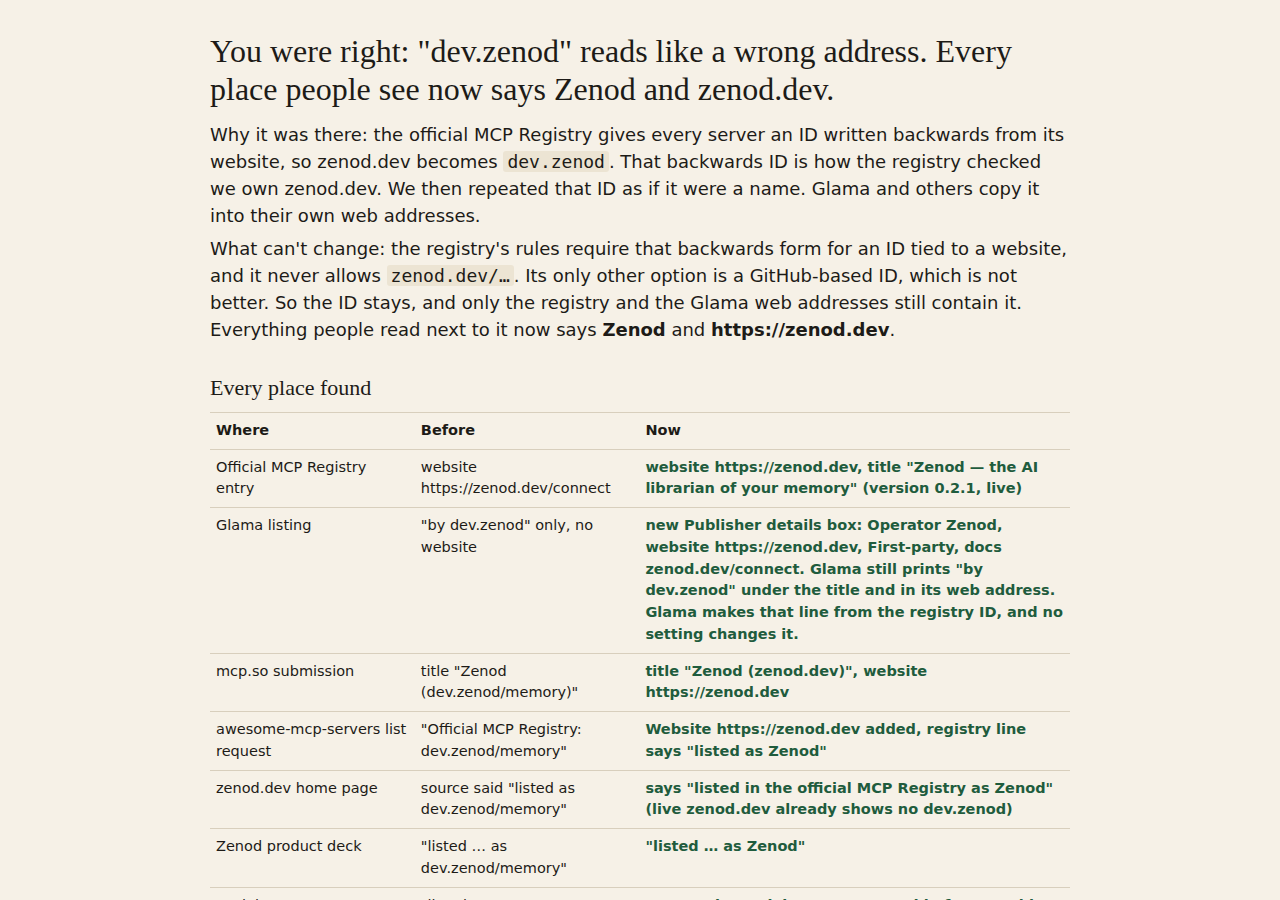
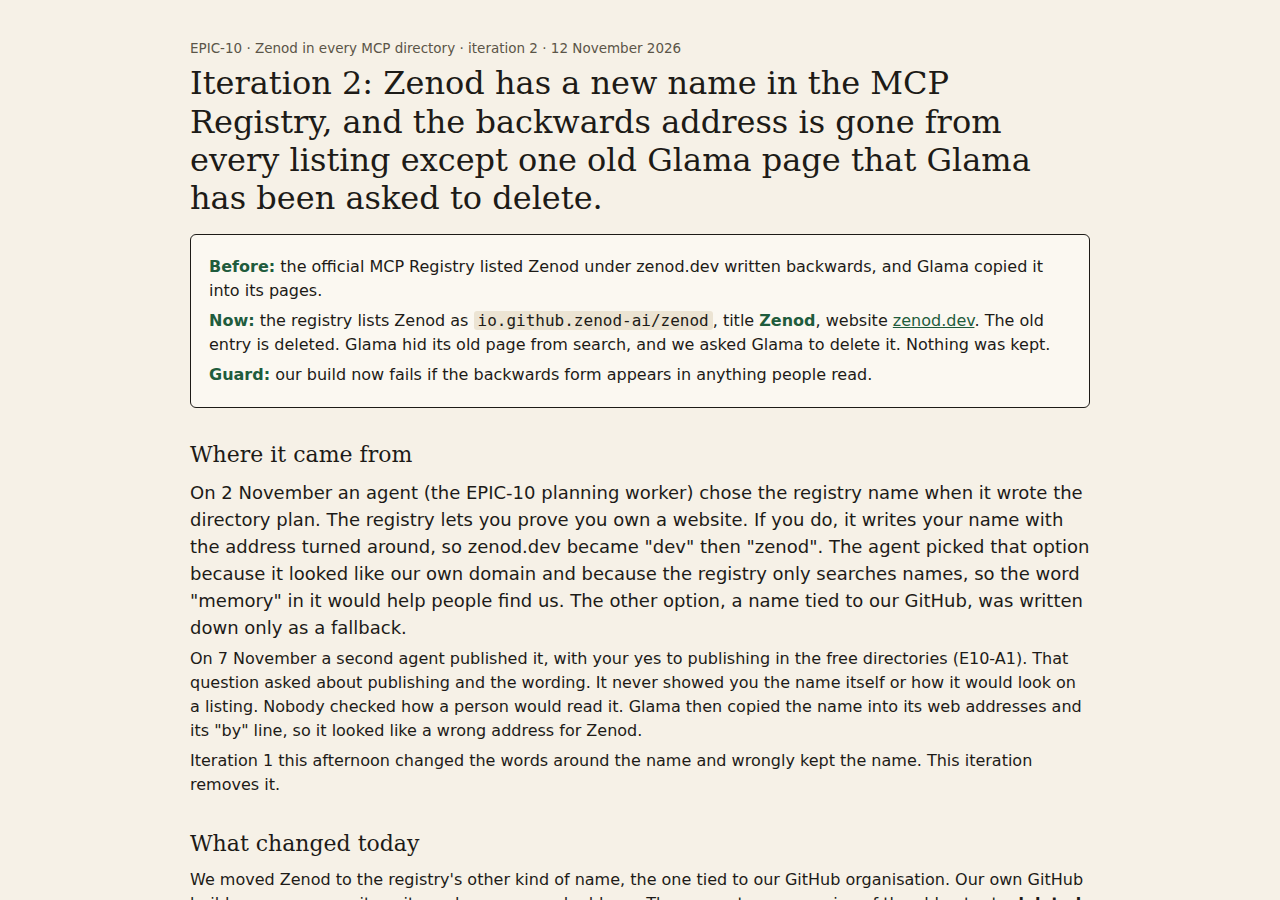
E10-S1 iteration 2: answer page, card and row back to review
Registry moved to io.github.zenod-ai/zenod, old name deleted, Glama old page
deprecated and removal requested (GLM-38), guard in ci.

Run: run_8371e147-0daa-4d9d-bceb-3e484a946b38

Changed region(s): [[0.125, 0.0311, 0.8438, 0.9333], [0.1562, 0.9333, 0.8438, 1.0]]

diff --git a/docs/evidence/e10-s1-2026-11-12/index.html b/docs/evidence/e10-s1-2026-11-12/index.html
@@ -1,2 +1,65 @@
-<!doctype html><html lang="en"><head><meta charset="utf-8"><title>Zenod listings: iteration 2</title></head>
-<body><p>Iteration 2 of the Zenod listings fix is being written. The live page is at http://vps3.taild81fbb.ts.net:8921/e10-s1/.</p></body></html>
+<!doctype html><html lang="en"><head><meta charset="utf-8"><meta name="viewport" content="width=device-width,initial-scale=1">
+<title>Zenod listings: the backwards address, iteration 2</title>
+<style>
+body{background:#f6f1e7;color:#1d1b17;font:16px/1.5 "Instrument Sans",system-ui,sans-serif;margin:0}
+main{max-width:900px;margin:0 auto;padding:32px 20px 60px}
+h1{font-family:Newsreader,Georgia,serif;font-weight:500;font-size:32px;line-height:1.2;margin:0 0 12px}
+h2{font-family:Newsreader,Georgia,serif;font-weight:500;font-size:22px;margin:30px 0 8px}
+p{margin:6px 0}.lead{font-size:18px}
+.box{border:1px solid #1d1b17;border-radius:6px;padding:14px 18px;margin:16px 0;background:#fbf8f1}
+.box b{color:#1f5c3d}
+table{border-collapse:collapse;width:100%;font-size:14.5px;margin-top:8px}
+td,th{border-top:1px solid #d8cfbd;padding:7px 6px;text-align:left;vertical-align:top}th{font-weight:600}
+.ok{color:#1f5c3d;font-weight:600}.wait{color:#8a5a00;font-weight:600}
+img{max-width:100%;border:1px solid #d8cfbd;border-radius:6px;margin:6px 0}
+a{color:#1f5c3d}code{background:#ece4d3;padding:0 4px;border-radius:3px}
+.small{font-size:13.5px;color:#5b5548}
+</style></head><body><main>
+<p class="small">EPIC-10 · Zenod in every MCP directory · iteration 2 · 12 November 2026</p>
+<h1>Iteration 2: Zenod has a new name in the MCP Registry, and the backwards address is gone from every listing except one old Glama page that Glama has been asked to delete.</h1>
+<div class="box">
+<p><b>Before:</b> the official MCP Registry listed Zenod under zenod.dev written backwards, and Glama copied it into its pages.</p>
+<p><b>Now:</b> the registry lists Zenod as <code>io.github.zenod-ai/zenod</code>, title <b>Zenod</b>, website <a href="https://zenod.dev">zenod.dev</a>. The old entry is deleted. Glama hid its old page from search, and we asked Glama to delete it. Nothing was kept.</p>
+<p><b>Guard:</b> our build now fails if the backwards form appears in anything people read.</p>
+</div>
+
+<h2>Where it came from</h2>
+<p class="lead">On 2 November an agent (the EPIC-10 planning worker) chose the registry name when it wrote the directory plan. The registry lets you prove you own a website. If you do, it writes your name with the address turned around, so zenod.dev became "dev" then "zenod". The agent picked that option because it looked like our own domain and because the registry only searches names, so the word "memory" in it would help people find us. The other option, a name tied to our GitHub, was written down only as a fallback.</p>
+<p>On 7 November a second agent published it, with your yes to publishing in the free directories (E10-A1). That question asked about publishing and the wording. It never showed you the name itself or how it would look on a listing. Nobody checked how a person would read it. Glama then copied the name into its web addresses and its "by" line, so it looked like a wrong address for Zenod.</p>
+<p>Iteration 1 this afternoon changed the words around the name and wrongly kept the name. This iteration removes it.</p>
+
+<h2>What changed today</h2>
+<p>We moved Zenod to the registry's other kind of name, the one tied to our GitHub organisation. Our own GitHub build proves we own it, so it needs no reversed address. Then we set every version of the old entry to <b>deleted</b>. That hides it from the registry and tells every directory that copies the registry to drop it.</p>
+
+<h2>Every place, before and after</h2>
+<table><tr><th>Where</th><th>Before</th><th>After</th><th>Checked live</th></tr>
+<tr><td>Official MCP Registry</td><td>Zenod listed under zenod.dev written backwards, three versions</td><td class="ok">Listed as <code>io.github.zenod-ai/zenod</code>, title Zenod, website zenod.dev. All three old versions set to deleted and gone from the registry</td><td class="small">16:28Z</td></tr>
+<tr><td>Glama search for zenod</td><td>showed Zenod under zenod.dev written backwards</td><td class="ok">the old page no longer appears in Glama search</td><td class="small">16:42Z</td></tr>
+<tr><td>Glama old connector page</td><td>title and address used zenod.dev written backwards</td><td class="wait">marked deprecated with the note "Zenod has moved" and a pointer to zenod.dev. <b>Removal requested 12 November 2026</b>, Glama support case GLM-38: delete the page and its addresses</td><td class="small">16:40Z</td></tr>
+<tr><td>Glama page for our GitHub repo</td><td>linked to the old connector page</td><td class="wait"><b>Removal requested 12 November 2026</b> in the same case GLM-38: link the new connector instead</td><td class="small">16:42Z</td></tr>
+<tr><td>Glama new connector</td><td>did not exist</td><td class="wait">Glama copies new registry entries on its own. Not there yet at 16:42Z. The next listing check confirms it</td><td class="small">16:42Z</td></tr>
+<tr><td>mcp.so submission</td><td>its registry line named zenod.dev written backwards</td><td class="ok">says listed as Zenod, <code>io.github.zenod-ai/zenod</code>, website zenod.dev</td><td class="small">16:25Z</td></tr>
+<tr><td>awesome-mcp-servers request</td><td>its registry line named zenod.dev written backwards</td><td class="ok">says listed as Zenod, <code>io.github.zenod-ai/zenod</code></td><td class="small">16:25Z</td></tr>
+<tr><td>Our four GitHub pull requests about the listing</td><td>titles or text named zenod.dev written backwards</td><td class="ok">reworded</td><td class="small">16:31Z</td></tr>
+<tr><td>Our public GitHub repo, every file</td><td>about 70 lines in the plan, cards, evidence notes, a test, a server label and the publish step</td><td class="ok">zero. 28 old screenshots that showed it were removed</td><td class="small">16:28Z</td></tr>
+<tr><td>Our team's plan pages (spines)</td><td>seven lines still name zenod.dev written backwards</td><td class="wait"><b>Handed to the Delivery Manager today</b> to reword. Only he writes those lines</td><td class="small">16:45Z</td></tr>
+<tr><td>zenod.dev, zenod.dev/connect, cloud.zenod.dev</td><td>already clean</td><td class="ok">checked, none</td><td class="small">16:21Z</td></tr>
+<tr><td>GitHub repo About box, the Gemini extension repo</td><td>already clean</td><td class="ok">checked, none</td><td class="small">16:21Z</td></tr>
+<tr><td>PulseMCP, mcp.so site, MCP Market, Smithery, GitHub's MCP list</td><td>Zenod not listed there</td><td class="ok">checked, nothing to remove</td><td class="small">16:30Z</td></tr>
+<tr><td>Social team files and unsent posts</td><td>a listing table and a registry screenshot with zenod.dev written backwards</td><td class="wait"><b>Handed to the social team today</b> to reword and retire the screenshot. Tonight's post already says Zenod and zenod.dev</td><td class="small">16:24Z</td></tr>
+<tr><td>Our DNS record note at Cloudflare</td><td>named zenod.dev written backwards</td><td class="ok">renamed</td><td class="small">16:29Z</td></tr>
+<tr><td>A label inside the Phylax server image</td><td>named zenod.dev written backwards</td><td class="ok">renamed in the code. The next image build carries the new label</td><td class="small">16:28Z</td></tr>
+</table>
+<p class="small">Glama is the only directory that copied the old name. Its own setting can only deprecate a page, which hides it from search but leaves it reachable by its old address, so we asked Glama's team to delete it.</p>
+<p class="small">Two things cannot be edited by anyone: old git commits in our public repo, and GitHub's "edited" history on the issue and pull requests. Changing past commits would mean rewriting the shared history of the repo, which we do not do. No page or listing shows the old text.</p>
+
+<h2>What you see now</h2>
+<p><a href="https://registry.modelcontextprotocol.io/?q=zenod">Official MCP Registry, search "zenod"</a>: Zenod appears as <code>io.github.zenod-ai/zenod</code>, and the old entry is gone.</p>
+<img src="registry-new.png" alt="Official MCP Registry search for zenod showing io.github.zenod-ai/zenod v1.0.0">
+<p><a href="https://glama.ai/mcp/connectors?query=zenod">Glama search for zenod</a>: the old page is gone from results.</p>
+<img src="glama-search.png" alt="Glama connector search for zenod with no result under the old name">
+
+<h2>The guard</h2>
+<p>A check now runs first in every build of the Zenod repo and before every registry publish. It fails if zenod.dev written backwards shows up in the listing file, the website, cards, evidence pages, code or tests. The registry publish also refuses a listing whose title is not Zenod or whose website is not https://zenod.dev.</p>
+<p class="small">EPIC-10 row E10-S1, iteration 2. Registry change: pull request 1648, published 16:27Z, old name deleted 16:28Z.</p>
+</main></body></html>

diff --git a/docs/zenod-in-every-mcp-directory-listing-spr.md b/docs/zenod-in-every-mcp-directory-listing-spr.md
@@ -71,7 +71,7 @@ Steps: each is independently testable and closes only with evidence.
 | E10-R10 | Ticket worker | Delivery Manager (monthly, date-gated) | E10-R7 findability check (needs R3 to R5 live): follow-up of E10-R3 | blocked | date 2026-12-08 (monthly re-run); Glama claim waits on E7-A15 | none | main | [findability table](epic10/findability-2026-11-08.md), [evidence](evidence/epic10-r10-2026-11-08.md): Registry "memory" 62/323 A–Z ; Glama Unhealthy, hidden ; "whatsapp memory" open phrase ; Smithery search empty ; wording E10-A6 live 2026-11-08 ([wording evidence](evidence/epic10-r10-wording-2026-11-08.md)): Registry 0.2.0 via CI (first real publish, run 42451067814, #1513), Gemini v0.2.0, mcp.so 6906 and awesome PR 18864 updated, MCP Market free queue 403 | 2026-11-08 | wording done 2026-11-08 (run_c9524b0c): every listing we control carries "Zenod — the AI librarian of your memory"; Glama picks it up from the registry by itself, its claim waits on E7-A15; next: monthly findability re-run 2026-12-08 against the new wording |
 | E10-R11 | Ticket worker | run_e0378fa1-40bd-420f-a81e-34f32e0245f9 | Claim Zenod's Glama listing (https://glama.ai/mcp/connectors/dev.zenod/memory) and add a test profile under Admin, Test Profile, so its health check signs in and Zenod stops reading Unhealthy (uptime 0.0%, tested 2026-11-12 03:58Z) | done (folded into E10-S1) | E10-A4 (Jordi: claim once the team sign-in exists); E7-A19 done 2026-11-11 (operations@alpha9.io signed into the agents' browser) | none (DNS TXT `_glama-claim.zenod.dev` on Cloudflare; Glama account Zenod Operations, jordi+zenod-glama@zenod.dev, Bitwarden queued) | main | [E10-R11 evidence](evidence/e10-r11-2026-11-12.md), [card](cards/E10-R11.md): claimed 06:16Z (Ownership verified via DNS), test profile API key = token "Glama health check (tools/list only)" on the agent-owned T7 test account (Google sign-in had expired; no other agent identity; health check is tools/list only), Healthy 06:20Z with 8 tools, TDQS A 4/5, Z logo thumbnail, found by Glama search "zenod" | 2026-11-12 | followups: start retry the awesome-mcp-servers PR (E10-R4) — it waited on the Glama score; note the bot may want the server listing zenod-ai/zenod scored too; park a separate empty test account for Glama — needs an agent-owned GitHub or Google identity, swap the token when one exists; confirm: yes — Jordi can open the public Glama listing and see Healthy himself ; login: the Glama account "Zenod Operations" (jordi+zenod-glama@zenod.dev, email-code sign-in) is queued for Jordi's Bitwarden, saves when agent_team/E83-A10 (confirm the Bitwarden helper) is done ; loose end: an unverified Glama sign-up under zenod-glama@zenod.dev may exist, unused |
 | E10-R12 | Ticket worker | unassigned | A real tagged Zenod release with a changelog and working install steps (the only release today is a whisper-cli binary from 5 Jul), so awesome lists such as awesome-selfhosted can list Zenod four months later | draft | none | none | main | zenod-social desk note 2026-11-12 (Scout's backlinks research) | 2026-11-12 | draft until Jordi starts it: a public release is publishing |
-| E10-S1 | Ticket worker | run_8371e147-0daa-4d9d-bceb-3e484a946b38 — claimed 2026-11-12T16:09Z, lease until 2026-11-12T18:09Z | Wrong address dev.zenod: find every place and fix it to zenod.dev: Jordi (vn_9a3f197b): listings carry dev.zenod instead of zenod.dev. Quick sweep of every listing, profile, repo, page and product where the wrong address appears; fix each one; report the list. | active (iteration 2, relaunched by Jordi 2026-11-12: It's not clear to me, man. Did we, why did we make this big mistake in so many places when we're registering in the public directories? Why did we make this mistake in the first place? Where did this come from? And did we 100% of places fix it? In 100% of places? Don't tell me that you kept it. I d…) | none | [#1647](https://github.com/zenod-ai/zenod/pull/1647) merged 69e44af7; 53289872 main-direct | main | [answer page](http://vps3.taild81fbb.ts.net:8921/e10-s1/) (serves /home/t3agent/zenod-evidence-pages/e10-s1, copy [evidence/e10-s1-2026-11-12](evidence/e10-s1-2026-11-12/index.html)), [card](cards/E10-S1.md): no real URL anywhere pointed at dev.zenod; `dev.zenod/memory` is the registry ID, whose rules require the reverse-domain form for a domain-verified name (registry docs authentication.mdx, checked 2026-11-12), so it is kept ; Registry 0.2.1 live via CI run 43247236322, websiteUrl https://zenod.dev ; Glama Publisher profile published (Operator Zenod, website https://zenod.dev, First-party, docs zenod.dev/connect, support contact support@zenod.dev; 'by dev.zenod' is Glama's namespace from the registry, not editable) ; mcp.so issue 6906 retitled 'Zenod (zenod.dev)' + Website line ; awesome-mcp-servers PR 18864 body Website line + 'listed as Zenod' ; zenod.dev home text 'listed … as Zenod' (#1647, staging now, production on next promote; live zenod.dev already had 0 dev.zenod) ; EPIC-12 decks reworded ; GitHub About, Gemini repo, Instagram, YouTube, LinkedIn, TikTok checked clean ; X profile read HELD (laptop offline) ; kept: registry ID, Glama URL, mcp-registry.yml search, Phylax OCI label `dev.zenod.runtime`, evidence files | 2026-11-12 | iteration 2 brief (Jordi vn_9bd9436e and WhatsApp 15:38Z Log/2026-11-12.md#^e-677b37: "why did we make this big mistake … where did this come from? … did we 100% of places fix it? Don't tell me that you kept it. I don't want it kept anywhere"): (1) root cause in plain words: who chose the registry id dev.zenod/memory and when (E10-R3), and why nobody explained that the registry writes the domain backwards ; (2) remove dev.zenod from 100% of public places: weigh republishing Zenod in the MCP Registry under the GitHub namespace io.github.zenod-ai and retiring the dev.zenod entries (status deprecated or deleted), then Glama, mcp.so, awesome lists and every other directory follow the new id ; list every place with before and after, none kept ; (3) a guard that stops it coming back (a check in the publish workflow and the listing copy that refuses dev.zenod in anything a person reads) ; then back to review with the live page; queued 2026-11-12 ~15:55Z: no seat with headroom (vps3 load) |
+| E10-S1 | Ticket worker | run_8371e147-0daa-4d9d-bceb-3e484a946b38 | Wrong address: remove zenod.dev written backwards from every listing, profile, repo, page and product (Jordi vn_9a3f197b, iteration 2 vn_9bd9436e) | review (iteration 2) | none | [#1648](https://github.com/zenod-ai/zenod/pull/1648) merged bc0ba9c3; [#1647](https://github.com/zenod-ai/zenod/pull/1647) merged 69e44af7 | main | [answer page](http://vps3.taild81fbb.ts.net:8921/e10-s1/) iteration 2 (serves /home/t3agent/zenod-evidence-pages/e10-s1, copy [evidence/e10-s1-2026-11-12](evidence/e10-s1-2026-11-12/index.html)), [card](cards/E10-S1.md): root cause: the EPIC-10 planning worker (run_a84842a7, P1 plan e8d51601, 2026-11-02) chose the registry's domain-verified name, which the registry writes reversed, for brand and search reasons, with the GitHub name only as fallback; E10-R3 published it 2026-11-07 under E10-A1, which never showed Jordi the name ; iteration 2: Registry `io.github.zenod-ai/zenod` 1.0.0 live 16:27Z (GitHub OIDC, title Zenod, website https://zenod.dev, #1648 bc0ba9c3), old name all 3 versions status deleted 16:28Z (workflow_dispatch retire_name) ; Glama old connector deprecated 16:40Z (out of search), removal requested 2026-11-12 support case GLM-38 (delete page and URLs, relink the repo page) ; new Glama connector not synced yet at 16:42Z ; mcp.so issue 6906 and awesome PR 18864 bodies name the new id ; zenod PRs 1501, 1503, 1513, 1647 reworded ; repo: 0 hits outside spines, 28 screenshots removed ; Cloudflare TXT comment renamed ; Phylax OCI label `zenod.runtime` ; guard `scripts/ci/check-no-reversed-domain.sh` first step in ci and in mcp-registry.yml ; social team desk note (zenod-social 33aa64e) ; checked clean: zenod.dev, /connect, cloud.zenod.dev, About box, zenod-gemini, PulseMCP, mcp.so, MCP Market, Smithery, GitHub MCP list ; nothing kept | 2026-11-12 | followups: start confirm Glama deleted the old page (GLM-38) and lists io.github.zenod-ai/zenod, then repoint E10-R4/R11 links — Glama is the only copy left ; start reword the six EPIC-10 spine lines (Done means E10-2, P1, R3, R4, R9, R11 rows) and the root Monitoring line that still name the backwards form — only the Delivery Manager writes them ; park ask Glama to drop the old URL redirects if GLM-38 only deprecates — wait for its answer ; confirm: yes — Jordi can open the registry and Glama search himself and see the old name is gone ; learning for root: L-x | naming anything public (registry ids, handles, slugs, URLs) | show Jordi the exact string as people will see it before publishing, and never use a reversed-domain id where a plain one exists | the registry's reversed zenod.dev read as a wrong address in every directory (E10-S1) | 2026-11-12 |
 
 ## Decisions
 

diff --git a/docs/cards/E10-S1.md b/docs/cards/E10-S1.md
@@ -1,12 +1,19 @@
 ---
 row: E10-S1
 spine: zenod-in-every-mcp-directory-listing-spr.md
-title: Zenod was moved to a new registry name so every listing shows Zenod and zenod.dev only.
-goal: No public listing shows zenod.dev written backwards, and a check stops it coming back.
+title: Zenod got a new registry name, the backwards address was removed from every listing, and a check stops it returning.
+goal: No public listing shows zenod.dev written backwards, and nothing brings it back.
+delivered:
+  - ✓ The [official MCP Registry](https://registry.modelcontextprotocol.io/?q=zenod) lists Zenod with website zenod.dev, and the old entry is deleted.
+  - ✓ Our repo, pull requests, mcp.so and awesome list requests no longer name the backwards address anywhere.
+  - ✗ One old Glama page is hidden from search but still reachable. Glama was asked to delete it today.
+  - ✓ Our build now fails if the backwards address appears in anything people read.
 evidence: [Open the answer page](http://vps3.taild81fbb.ts.net:8921/e10-s1/)
 screenshot: E10-S1.png
 name: Backwards address removed everywhere
-confirm: yes — Jordi can open each listing and see the old name is gone
+after: Glama deletes its old page and lists the new one, and the next listing check confirms both.
+next: "start: confirm Glama deleted its old page and shows the new listing"
+confirm: yes — Jordi can open the registry and Glama himself and see the old name is gone
 ---
 
-Card for E10-S1 iteration 2, being written by the ticket worker run_8371e147 on 2026-11-12.
+Card for E10-S1 iteration 2, written by the ticket worker run_8371e147 on 2026-11-12. Evidence: [answer page copy](../evidence/e10-s1-2026-11-12/index.html).
